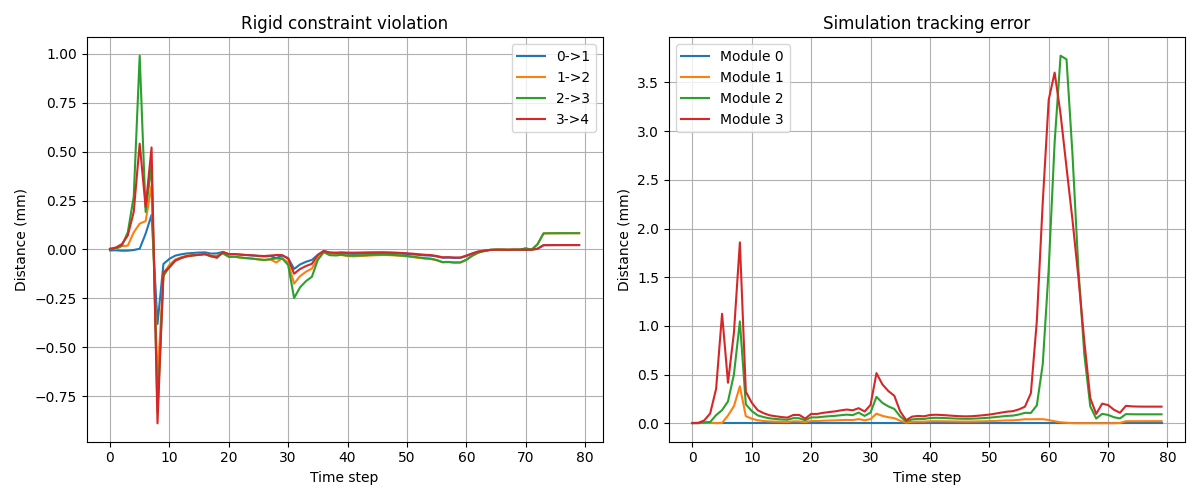
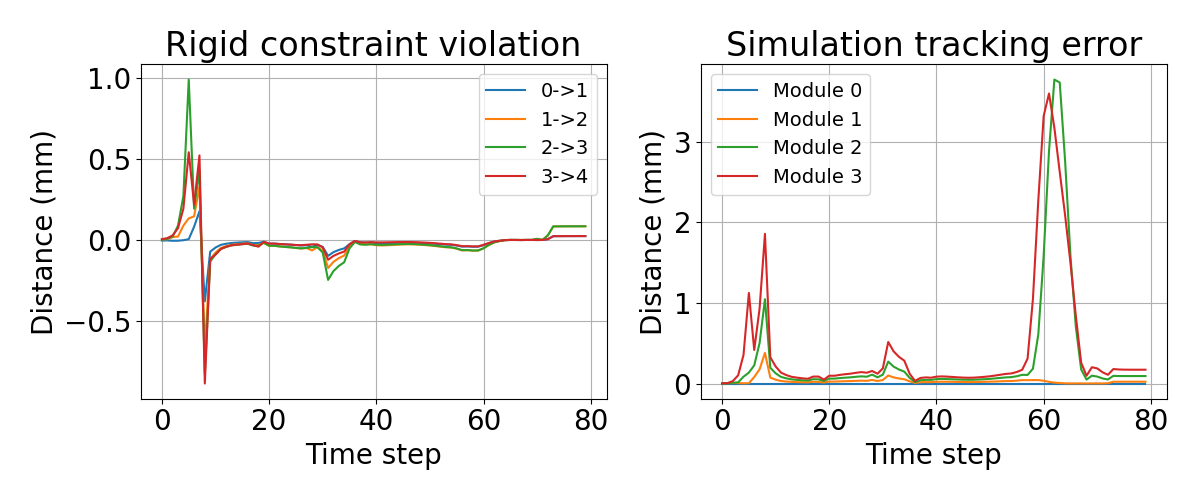
Larger font

diff --git a/planning/mpc_simulation.py b/planning/mpc_simulation.py
@@ -11,6 +11,8 @@ import pybullet as p
 from scipy.spatial.transform import Rotation as R
 import scenarios
 
+plt.rcParams['font.size'] = 20
+
 scenario = scenarios.USHAPE_TWO_OBS
 
 savefile = scenario["savefile"]
@@ -142,7 +144,7 @@ def sim_loop(dragon: Dragon):
     ymax = np.max(dist_hist)
     margin = 0.05 * (ymax - ymin)  # optional small buffer
     ax[0].set_ylim(ymin - margin, ymax + margin)
-    ax[0].legend()
+    ax[0].legend(fontsize = 14)
     ax[0].set_title("Rigid constraint violation")
     ax[0].set_xlabel("Time step")
     ax[0].set_ylabel("Distance (mm)")
@@ -152,7 +154,7 @@ def sim_loop(dragon: Dragon):
     ax[1].set_xlabel("Time step")
     ax[1].set_ylabel("Distance (mm)")
     ax[1].grid(True)
-    ax[1].legend()
+    ax[1].legend(fontsize = 14)
     plt.tight_layout()
     plt.savefig(f"saves/{savefile}_distances_plot.png")
 

diff --git a/planning/scenarios.py b/planning/scenarios.py
@@ -81,7 +81,7 @@ LINE_5_LONG = {
                 {"center": np.array([9.5, 2.5, 0.3]), "radius": 0.8},
                 ],
 
-  "x_ref":np.array([[11 + i * ell, 0, 0] for i in range(5)]),
+  "x_ref":np.array([[0, 11 + i * ell, 0] for i in range(5)]),
   "x_current":np.array([[0, i * ell, 0] for i in range(5)]),
   "N_drones":5,
   "K_admm":50,

diff --git a/planning/mpc-admm_paralel.py b/planning/mpc-admm_paralel.py
@@ -8,6 +8,8 @@ import multiprocessing
 import scenarios
 import matplotlib.cm as cm
 
+plt.rcParams['font.size'] = 20
+
 scenario = scenarios.USHAPE_TWO_OBS
 
 ell = scenarios.ell
